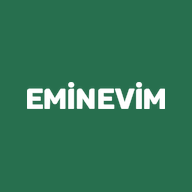
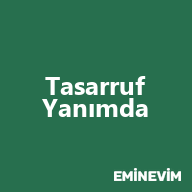
Ust panel switcher gizli, demo modu acik, PWA adi Tasarruf Yanimda
- Ust Musteri/SPY/Admin switcher mobil/PWA'da gizlendi (CSS ile, sonra
  geri gelebilmesi icin template'te birakildi).
- demoAutoAccept default: true. Ayrica konum paylasildiktan ~2 sn sonra
  SPY otomatik yola cikar. Musteri tek basina uctan uca yasar.
- Alt bant sekmeleri: hover/tap'ta cok acik gri; secili sekme hover'inda
  cok acik yesil (:has(svg[stroke=#276F4E])). Sadece anlik geri bildirim,
  kalici stil yok.
- PWA adi ve title: "Tasarruf Yanimda".
- Yeni PWA ikonlari: "Tasarruf Yanimda" merkezli, sag altta EMINEVIM
  logosu, yesil zemin (180/192/512).

Changed region(s): [[0.125, 0.375, 0.875, 0.625], [0.5938, 0.875, 0.9688, 0.9688]]

diff --git a/Eminevim Saha Paneli.dc.html b/Eminevim Saha Paneli.dc.html
@@ -2,12 +2,12 @@
 <html>
 <head>
 <meta charset="utf-8">
-<title>Eminevim · Tasarruf Yanımda</title>
+<title>Tasarruf Yanımda</title>
 <meta name="viewport" content="width=device-width, initial-scale=1, viewport-fit=cover">
 <meta name="theme-color" content="#276F4E">
 <meta name="apple-mobile-web-app-capable" content="yes">
 <meta name="apple-mobile-web-app-status-bar-style" content="black-translucent">
-<meta name="apple-mobile-web-app-title" content="Eminevim">
+<meta name="apple-mobile-web-app-title" content="Tasarruf Yanımda">
 <meta name="mobile-web-app-capable" content="yes">
 <link rel="manifest" href="./manifest.json">
 <link rel="apple-touch-icon" href="./assets/icon-180.png">
@@ -166,6 +166,23 @@ button, svg, input, [style*="background:var(--card)"], [style*="background:var(-
     left: auto !important;
     right: auto !important;
   }
+  /* Alt bant sekmeleri için hafif hover/tap renkleri (koyu değil, anlık) */
+  div[style*="border-top: 1px solid var(--line)"] > button {
+    border-radius: 10px !important;
+    margin: 0 2px !important;
+    transition: background-color .15s ease !important;
+  }
+  div[style*="border-top: 1px solid var(--line)"] > button:hover,
+  div[style*="border-top: 1px solid var(--line)"] > button:active {
+    background: rgba(15, 23, 32, 0.04) !important;
+  }
+  /* Seçili sekme (SVG stroke yeşilse) hover'ında çok açık yeşil */
+  div[style*="border-top: 1px solid var(--line)"] > button:has(svg[stroke="#276F4E"]):hover,
+  div[style*="border-top: 1px solid var(--line)"] > button:has(svg[stroke="#276F4E"]):active {
+    background: rgba(39, 111, 78, 0.10) !important;
+  }
+  /* Üst panel switcher (Müşteri/SPY/Admin) şimdilik gizli */
+  #dc-root > .sc-host > div div[style*="fadeIn"] > div:first-child { display: none !important; }
   /* Nav artık akışta olduğundan main'in bottom padding'i gereksiz */
   main[style*="padding-bottom: 62px"],
   main[style*="padding-bottom:62px"] { padding-bottom: 0 !important; }
@@ -784,7 +801,7 @@ class Component extends DCLogic {
     chatDraft: "",
     chatOpen: false,
     chatClosing: false,
-    demoAutoAccept: false,
+    demoAutoAccept: true,
     mapExpandedOpen: false,
   };
 
@@ -820,6 +837,7 @@ class Component extends DCLogic {
     if (this._geoWatch != null && navigator.geolocation) navigator.geolocation.clearWatch(this._geoWatch);
     if (this._assignmentTimer) clearInterval(this._assignmentTimer);
     if (this._autoAcceptTimer) clearTimeout(this._autoAcceptTimer);
+    if (this._autoStartRouteTimer) clearTimeout(this._autoStartRouteTimer);
     window.removeEventListener("message", this._pointMessageHandler);
   }
 
@@ -1167,6 +1185,12 @@ class Component extends DCLogic {
   shareLocation(point, label) {
     if (!point) return;
     this.setState((s) => ({ customerLocation: point, selectedPoint: point, pointPickerOpen: false, locationShared: true, reqStatus: "konumPaylasildi", repProgress: 0, repPos: null, chatMessages: [...s.chatMessages, { from: "musteri", text: label + " paylaşıldı." }, { from: "temsilci", text: "Konumunuzu aldım. Yönlendirme için hazırlanıyorum." }] }));
+    if (this._autoStartRouteTimer) clearTimeout(this._autoStartRouteTimer);
+    if (this.state.demoAutoAccept) {
+      this._autoStartRouteTimer = setTimeout(() => {
+        if (this.state.reqStatus === "konumPaylasildi") this.spyStartRoute();
+      }, 2000);
+    }
   }
   sendGpsLocation() {
     this.requestCurrentLocation(true);
